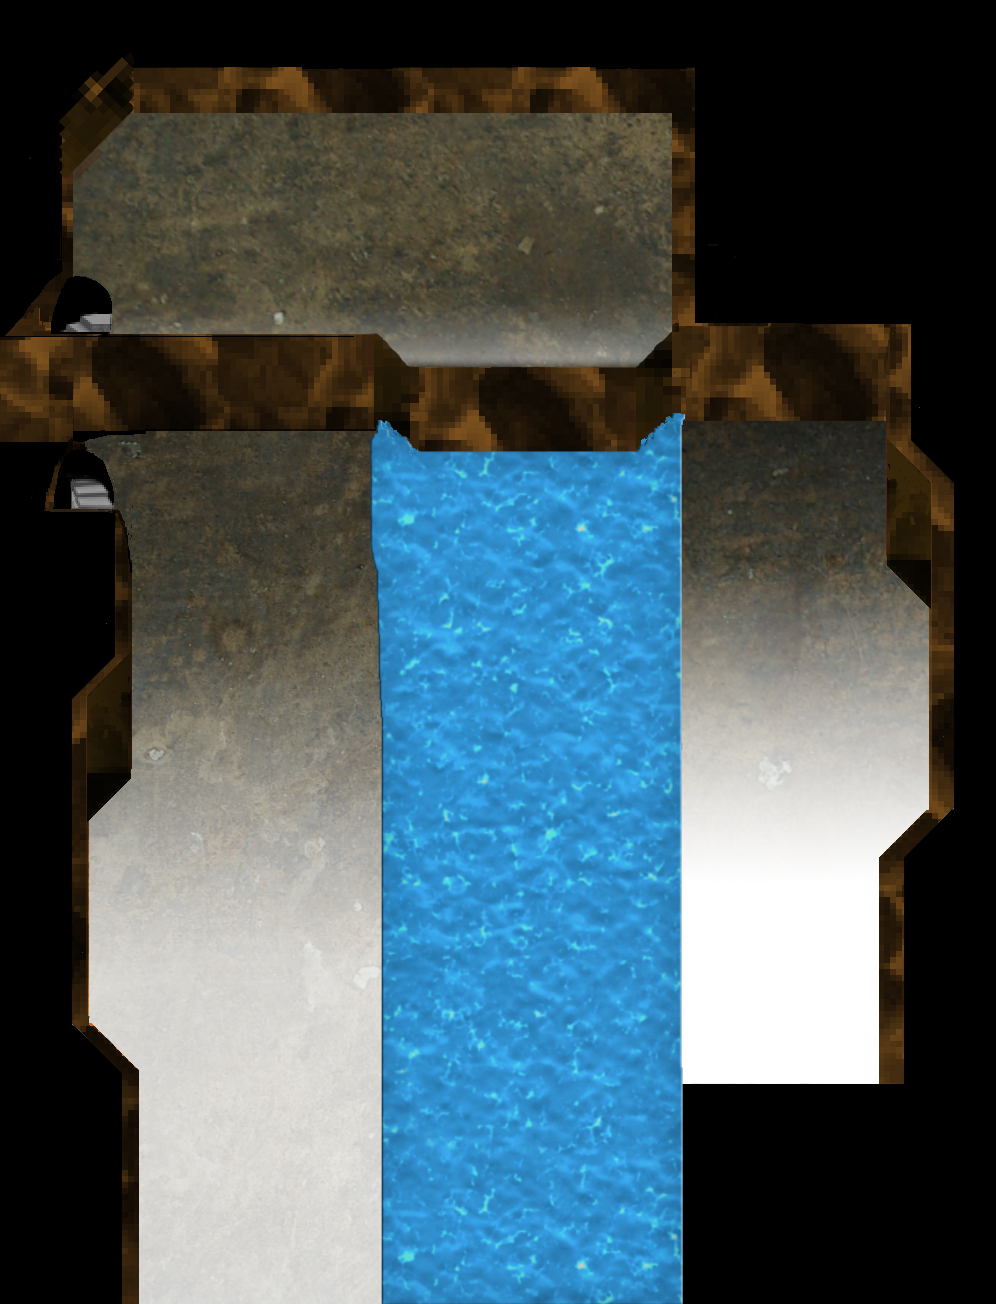
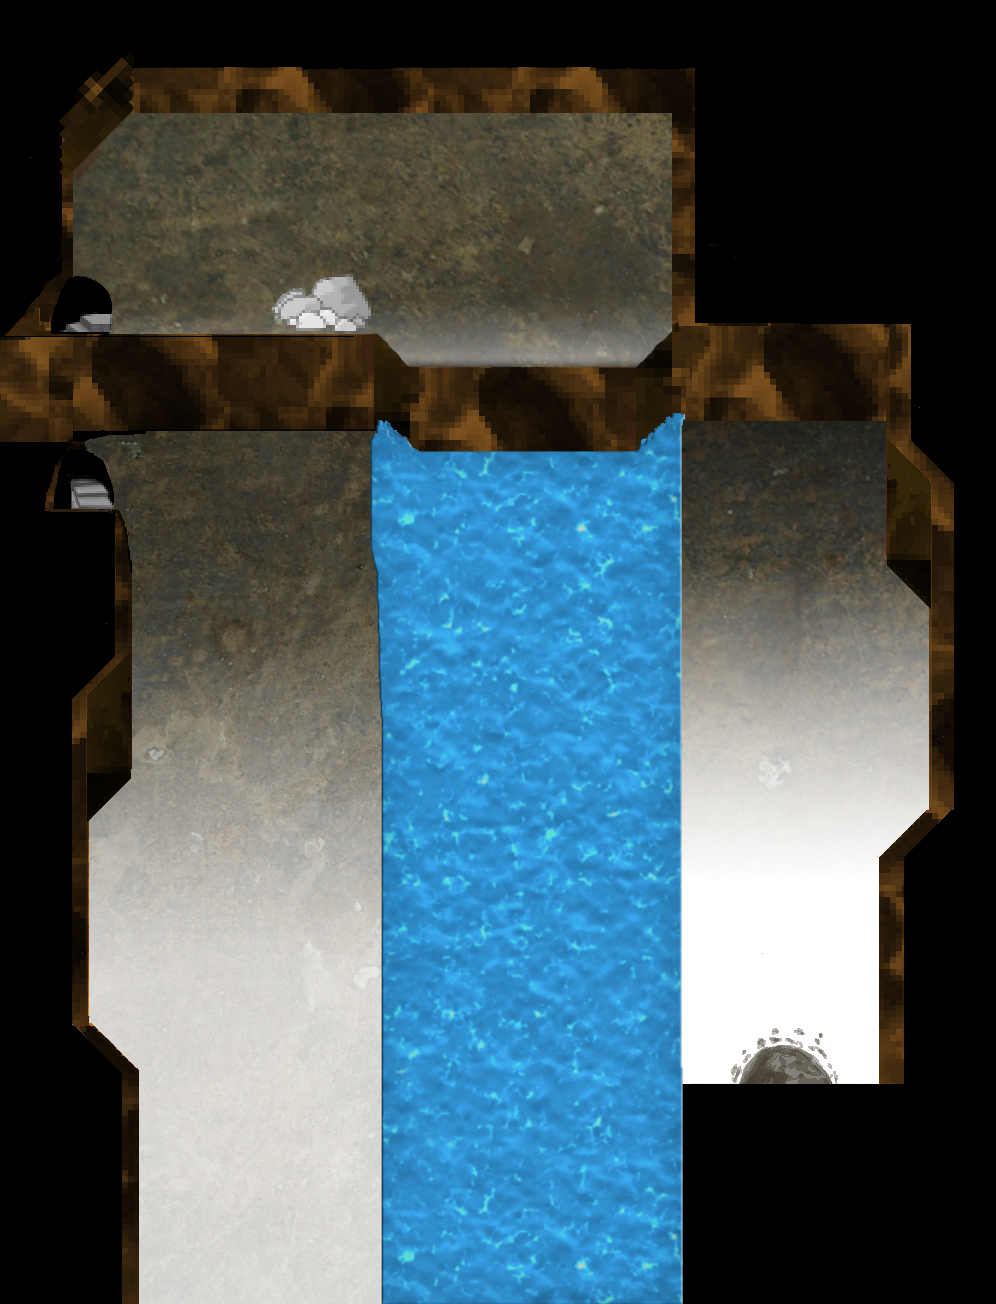
fixed log cross, added rock boundary, fixed exit boundary

Changed region(s): [[0.2801, 0.2147, 0.3735, 0.2761], [0.7159, 0.7975, 0.8404, 0.8282]]

diff --git a/js/game.js b/js/game.js
@@ -19,7 +19,8 @@ let Game = {
     game.load.image('lvl1bg', 'assets/images/lvl1bg.png')
     game.load.image('bg', 'assets/images/bg.png')
     game.load.image('bg2', 'assets/images/bg2.png')
-    game.load.image('log', 'assets/images/log1.png')
+    game.load.image('log', 'assets/images/movable-log-lvl1-376x297.png')
+    game.load.image('exit-log', 'assets/images/exit-barrier-log-lvl1.png')
     game.load.image('treasure', 'assets/images/treasure.png')
     game.load.image('treasure2', 'assets/images/treasure2.png')
     game.load.image('shuriken', 'assets/images/shuriken.png')
@@ -58,8 +59,8 @@ let Game = {
     // timer.loop(4000, this.createBossActions, this)
 
     // Add Sprites
-    log = makeSprite(370, 200, 'log')
-    player = makeSprite(240, 1304, 'hamster')
+    log = makeSprite(376, 297, 'log')
+    player = makeSprite(700, 200, 'hamster')
     // enemy = makeSprite(150, 500, 'hilary2')
     
     // Animations  
@@ -79,6 +80,7 @@ let Game = {
     boundaries.add(makeWorldSprite(700, 100, 320, 320, 'bg'))
     boundaries.add(makeWorldSprite(0, 0, 996, 110, 'bg'))
     boundaries.add(makeWorldSprite(0, 530, 134, 780, 'bg'))
+    boundaries.add(makeWorldSprite(270, 280, 100, 50, 'bg'))
 
     //Exit Boundary
     levelTwoExit = boundaries.add(makeWorldSprite(685, 1090, 200, 220, 'bg'))
@@ -100,14 +102,14 @@ let Game = {
     alpha(waterBoundaries)
 
     // Log
-    logCheck = makeSprite(370, 450, 'log')
+    logCheck = makeSprite(376, 490, 'log')
     alpha(logCheck)
 
     someLog = makeSprite(376, 490, 'log')
     alpha(someLog)
 
     // Level Unlock
-    levelUnlock = makeSprite(640, 800, 'log')
+    levelUnlock = makeSprite(690, 800, 'exit-log')
 
     bullets = game.add.group()
     bullets.enableBody = true
@@ -143,7 +145,6 @@ let Game = {
       levelUnlock], 
       Phaser.Physics.ARCADE)
 
-
       //REFACTOR
     // boss.body.immovable = true
       
@@ -158,6 +159,9 @@ let Game = {
     
     // Teleport Down
     collideImmovable(teleport2)
+
+    // Log Check
+    immovable(logCheck)
     
     // Water Death
     collisionGroup(waterBoundaries)
@@ -177,12 +181,13 @@ let Game = {
     // Keys for player movement/actions
     gameControls()
 
-    //player score
+    // Player score
     scoreDisplay = game.add.text(25, 5, "Score: " + `${score}  `, { fill: 'white'})
     scoreDisplay.fixedToCamera = true
     scoreDisplay.font = 'Knewave'
     scoreDisplay.fontSize = 40
-    //player lives
+    
+    //Player lives
     ninjaLivesDisplay = game.add.text(scoreDisplay.x, scoreDisplay.y + 45, "Lives: " + `${ninjaLives} `, { fill: 'white'})
     ninjaLivesDisplay.fixedToCamera = true
     ninjaLivesDisplay.font = 'Knewave'
@@ -339,7 +344,7 @@ let Game = {
     
     if (this.logMoved) {
       game.time.events.add(500, () => {
-        logs.reset(logs.body.x = 370, logs.body.y = 450)
+        logs.reset(logs.body.x = 376, logs.body.y = 490)
         logs.kill()
       })
 
@@ -353,6 +358,8 @@ let Game = {
     if (!this.logMoved) {
       player.kill()
       timeDelay(500, player, 240, 1304)
+    } else {
+      logCheck.kill()
     }
   },
 

diff --git a/js/main.js b/js/main.js
@@ -6,4 +6,4 @@ game.state.add('EndGame', endGame)
 game.state.add('GameOver', gameOver)
 // game.state.start('Menu')
 
-game.state.start('Two')
+game.state.start('Game')
